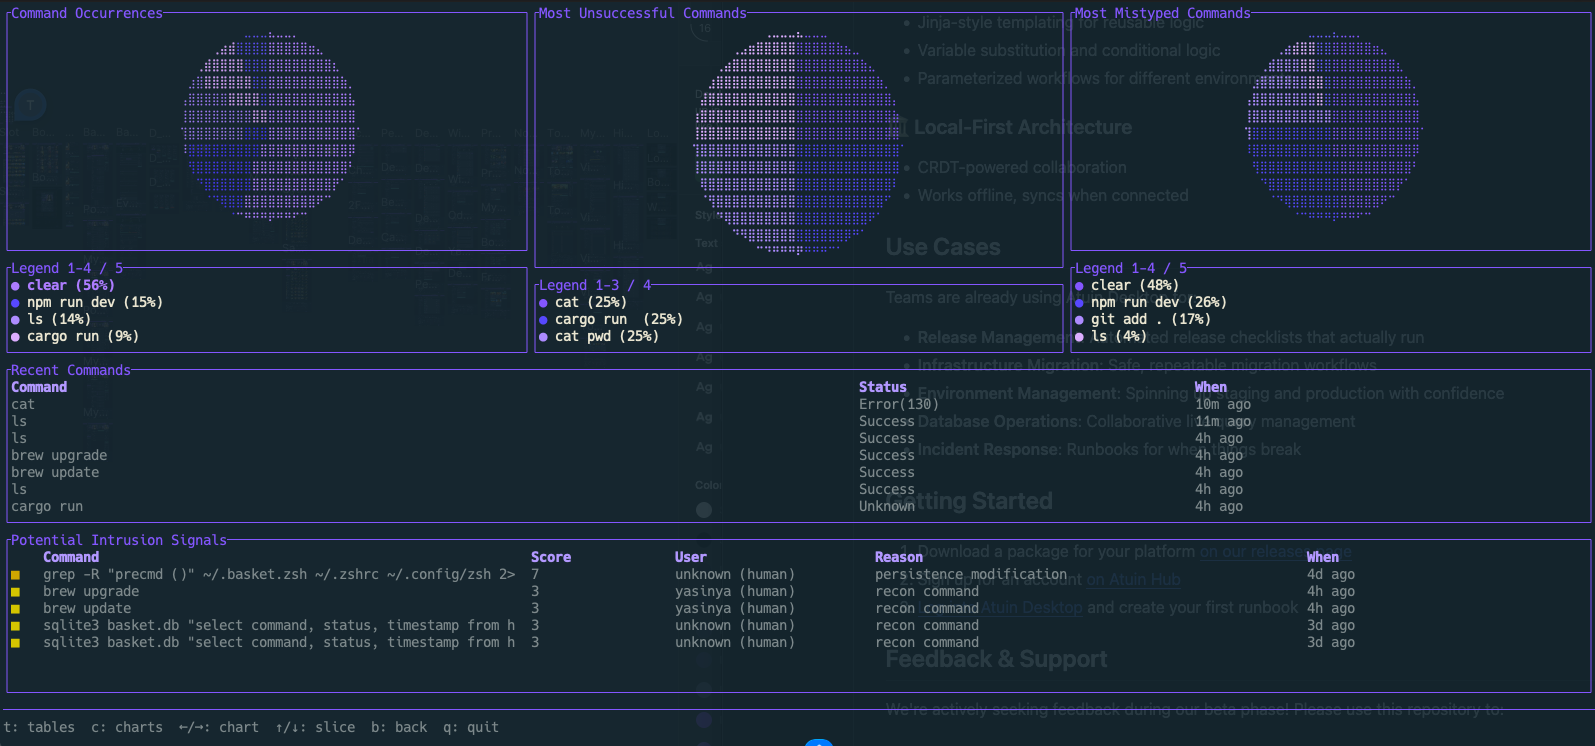
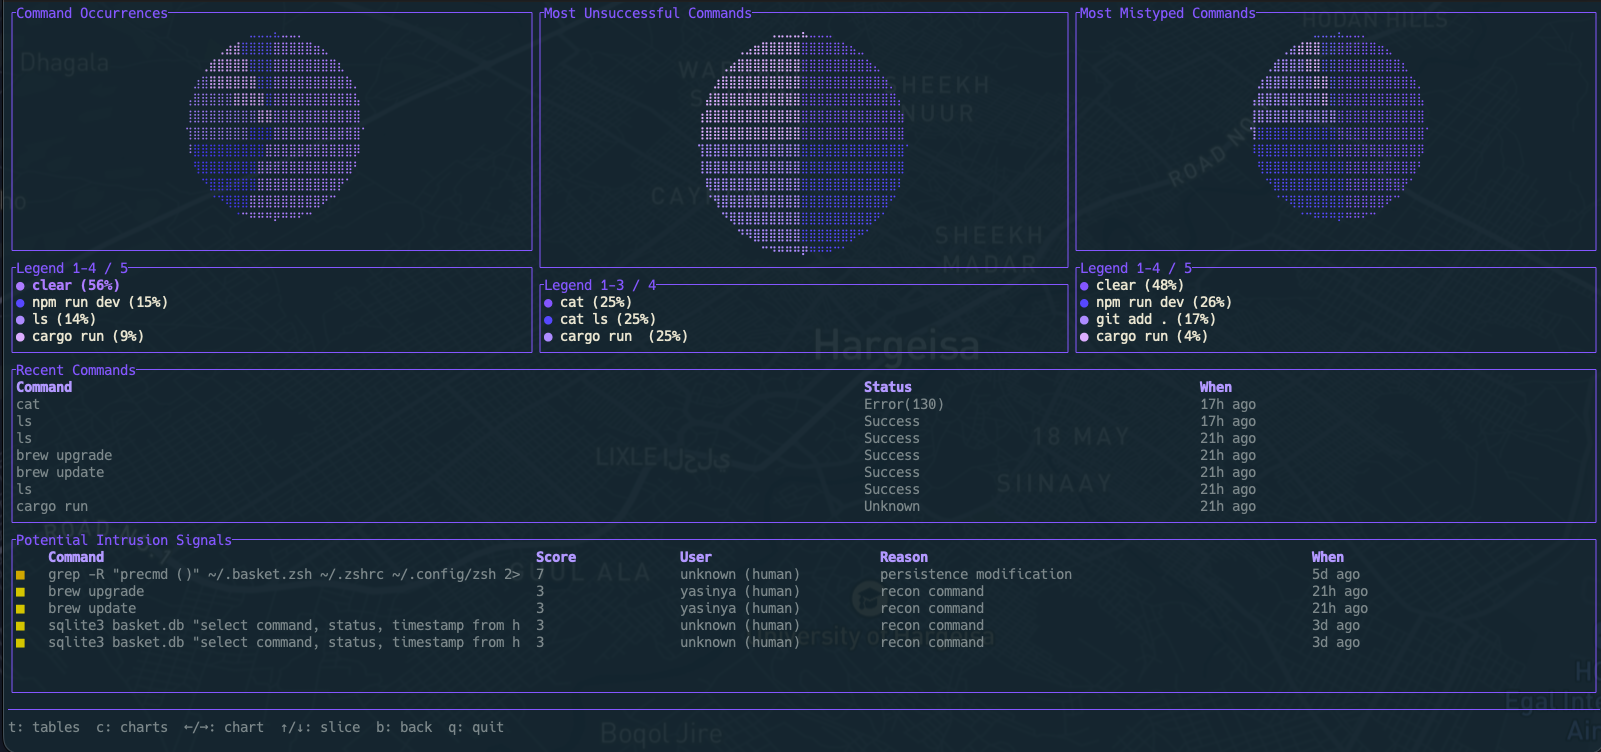
fix readme.md file

diff --git a/README.md b/README.md
@@ -1,9 +1,8 @@
 # Basket
 
-[![CI](https://github.com/YasinYA/basket/actions/workflows/ci.yml/badge.svg)](https://github.com/YasinYA/basket/actions/workflows/ci.yml)
-[![codecov](https://codecov.io/gh/YasinYA/basket/branch/main/graph/badge.svg)](https://codecov.io/gh/YasinYA/basket)
+[![CI](https://github.com/YasinYA/basket/actions/workflows/ci.yml/badge.svg?branch=main)](https://github.com/YasinYA/basket/actions/workflows/ci.yml)
 [![License](https://img.shields.io/badge/license-Apache--2.0-blue.svg)](LICENSE)
-[![Crates.io](https://img.shields.io/crates/v/basket.svg)](https://crates.io/crates/basket)
+[![Crates.io](https://img.shields.io/badge/crate-1.0.0-blue.svg)](https://crates.io/crates/basket)
 
 Basket is a local TUI for understanding your shell history and spotting risky command patterns. It ingests your command history, shows overview analytics, and runs a lightweight rule-based IDS to flag suspicious activity with explanations.
 
@@ -13,6 +12,12 @@ Basket is a local TUI for understanding your shell history and spotting risky co
 - Realtime watcher: keep history streaming and dashboards fresh
 - Rule-driven intrusion detection with score and reasons
 - Local-only data: no network required
+
+## Screenshots
+
+![Overview tables](assets/overview.png)
+![Charts view](assets/charts.png)
+![Watcher running](assets/watcher.png)
 
 ## Quick Start
 
